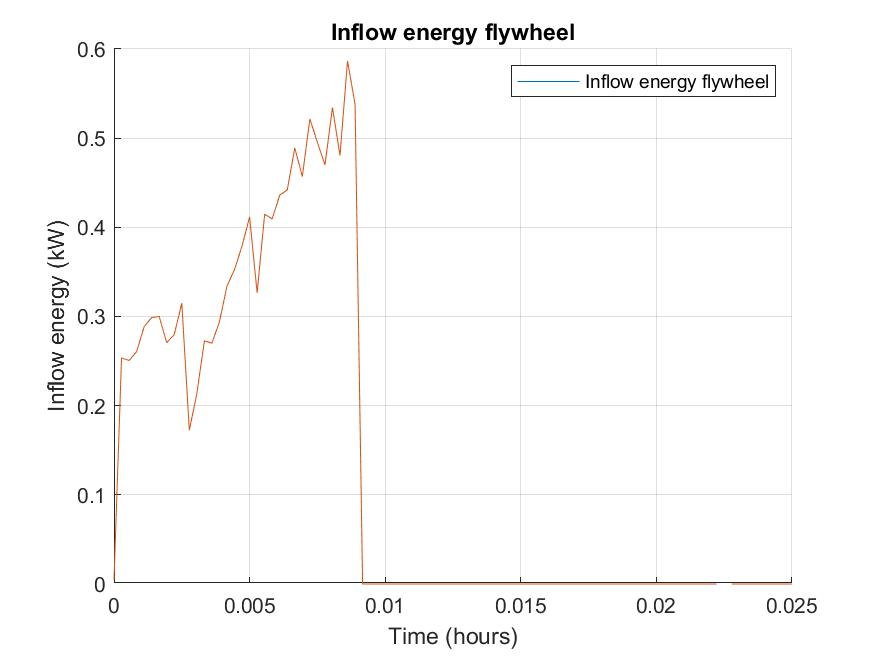
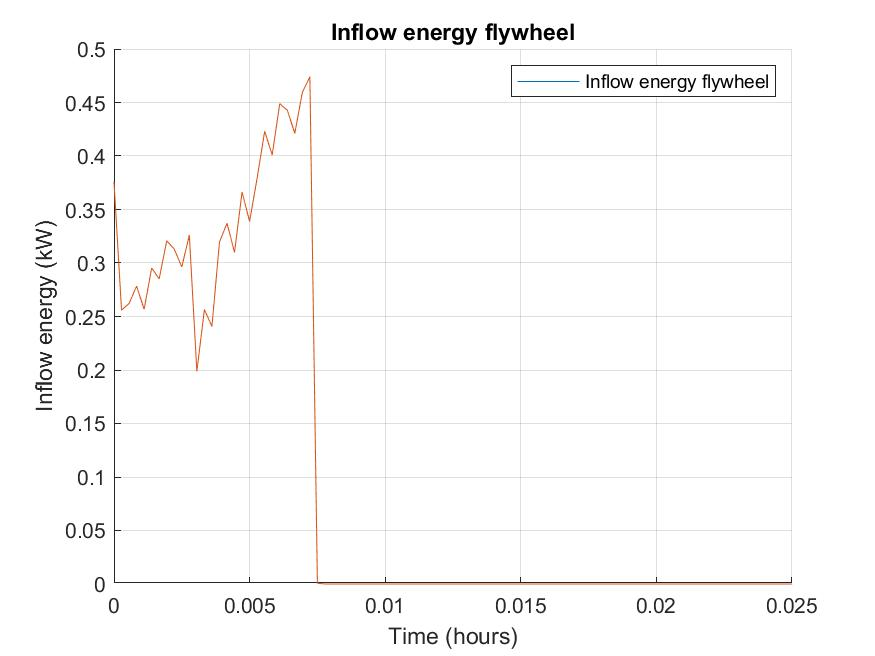
Tried another dataset to look at the difference

diff --git a/main_scale.m b/main_scale.m
@@ -11,7 +11,7 @@ ScaleConstants;
 % Calculations %
 %%%%%%%%%%%%%%%%
 %%% Read CSV data
-table_energy = readmatrix(['datasets/CSVfiles/Dataset_2.csv']);
+table_energy = readmatrix(['datasets/CSVfiles/Dataset_3.csv']);
 
 %%% Setting up tables                                                       %Heat vessel table for data logging
 table_flywheel(1,:) = table_energy(1,:) - table_energy(1,1);                      

diff --git a/plotGraphs.m b/plotGraphs.m
@@ -13,7 +13,7 @@ bearing_drag = table_flywheel(7,:);
 motor_drag = table_flywheel(8,:);
 E_energy = table_flywheel(3,:);
 E_inflow = table_flywheel(4,:);
-table_experiment = readmatrix(['datasets/CSVfiles/Dataset_2_angular_velocity.csv']);
+table_experiment = readmatrix(['datasets/CSVfiles/Dataset_3_angular_velocity.csv']);
 ang_experiment = table_experiment(2,:)
 
 %%Figure 1 for surplus
